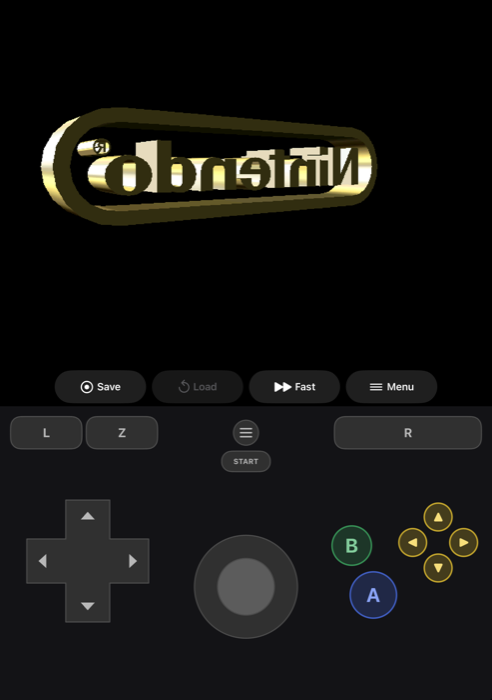
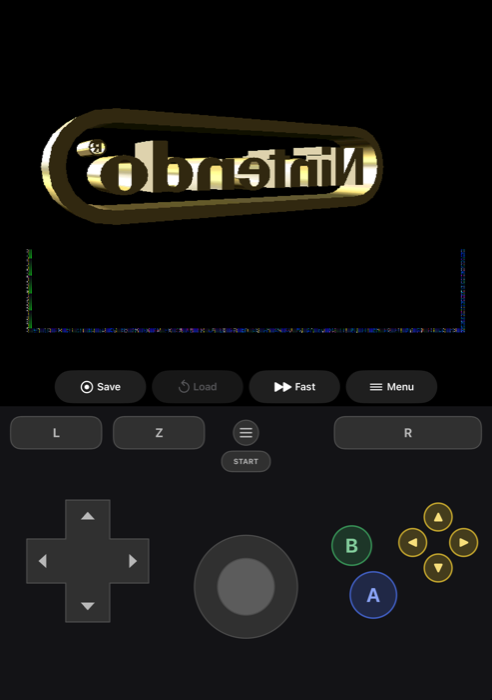
N64: wider L and Z with a gap; clear the GL framebuffer; log emulation speed
- L and Z are ~0.6x the shoulder width each, 16 pt apart, kept clear of the menu button
- The offscreen framebuffer starts black (GLideN64 leaves edge rows/columns undrawn, which
  showed uninitialised memory)
- Every 10 s the core logs its speed (fps and % of full speed) for on-device checks

diff --git a/Core/EmulatorCore.swift b/Core/EmulatorCore.swift
@@ -771,6 +771,9 @@ final class EmulatorCore: @unchecked Sendable {
         var deadline = mach_absolute_time()
         var lastSRAMCheck = deadline
         var lastConsumed = 0
+        // Speed report every 10 s (log category "core"): how close the core keeps to full speed.
+        var speedWindowStart = deadline
+        var speedWindowFrames = 0
 
         while true {
             runCondition.lock()
@@ -795,7 +798,15 @@ final class EmulatorCore: @unchecked Sendable {
                 if usesHardwareRender { duo_hw_make_current() }
                 api.run()
                 framesSinceLoad += 1
+                speedWindowFrames += 1
                 let now = mach_absolute_time()
+                let window = Double(now &- speedWindowStart) / ticksPerSecond
+                if window >= 10 {
+                    let fps = Double(speedWindowFrames) / window
+                    log.notice("speed: \(fps, format: .fixed(precision: 1)) fps of \(self.frameRate, format: .fixed(precision: 1)) (\(Int(fps / self.frameRate * 100))%)\(turbo ? " fast-forward" : "", privacy: .public)")
+                    speedWindowStart = now
+                    speedWindowFrames = 0
+                }
                 if now &- lastSRAMCheck >= sramInterval {
                     lastSRAMCheck = now
                     flushSRAMLocked()

diff --git a/App/Input/ControllerLayout.swift b/App/Input/ControllerLayout.swift
@@ -191,10 +191,13 @@ struct ControllerLayout: Equatable, Sendable {
             rRect = CGRect(x: area.maxX - shoulderW, y: area.minY, width: shoulderW, height: shoulderH)
             zRect = .null
         } else if pad == .n64 {
-            // L and Z share the left shoulder slot; R on the right.
-            let half = (shoulderW - gap / 2) / 2
-            lRect = CGRect(x: area.minX, y: area.minY, width: half, height: shoulderH)
-            zRect = CGRect(x: area.minX + half + gap / 2, y: area.minY, width: half, height: shoulderH)
+            // L and Z side by side on the left, with a thumb's gap between them and clear of
+            // the menu button; R on the right.
+            let lzGap: CGFloat = 16
+            let room = area.midX - menuSize / 2 - 12 - area.minX
+            let each = max(44, min(shoulderW * 0.62, (room - lzGap) / 2))
+            lRect = CGRect(x: area.minX, y: area.minY, width: each, height: shoulderH)
+            zRect = CGRect(x: area.minX + each + lzGap, y: area.minY, width: each, height: shoulderH)
             rRect = CGRect(x: area.maxX - shoulderW, y: area.minY, width: shoulderW, height: shoulderH)
         } else {
             lRect = .null

diff --git a/Tests/N64Tests.swift b/Tests/N64Tests.swift
@@ -32,7 +32,9 @@ final class N64Tests: XCTestCase {
             XCTAssertEqual(l.startRect.midX, l.menuRect.midX, accuracy: 0.5)
             XCTAssertEqual(l.label(for: .cUp), "▲", "arrows only on the yellow buttons")
             XCTAssertFalse(l.zRect.isNull)
-            XCTAssertFalse(l.zRect.intersects(l.lRect), "Z beside L")
+            XCTAssertGreaterThanOrEqual(l.zRect.minX - l.lRect.maxX, 16, "a gap between L and Z")
+            XCTAssertLessThan(l.zRect.maxX, l.menuRect.minX, "Z clear of the menu button at \(size)")
+            XCTAssertGreaterThanOrEqual(l.lRect.width, 80, "L wide enough to hit at \(size)")
             XCTAssertTrue(l.selectRect.isNull)
             let buttons = l.faceButtons
             XCTAssertEqual(Set(buttons.map(\.button.rawValue)),

diff --git a/Core/HWRender.m b/Core/HWRender.m
@@ -95,6 +95,13 @@ bool duo_hw_start(int width, int height) {
         duo_hw_stop();
         return false;
     }
+    // Start black: GLideN64 doesn't draw the edge rows/columns outside its viewport, and
+    // uninitialised renderbuffer memory would show there.
+    glViewport(0, 0, width, height);
+    glClearColor(0, 0, 0, 1);
+    glClearDepthf(1);
+    glClearStencil(0);
+    glClear(GL_COLOR_BUFFER_BIT | GL_DEPTH_BUFFER_BIT | GL_STENCIL_BUFFER_BIT);
     readback = malloc((size_t)width * (size_t)height * 4);
     if (request.context_reset) request.context_reset();
     started = true;
